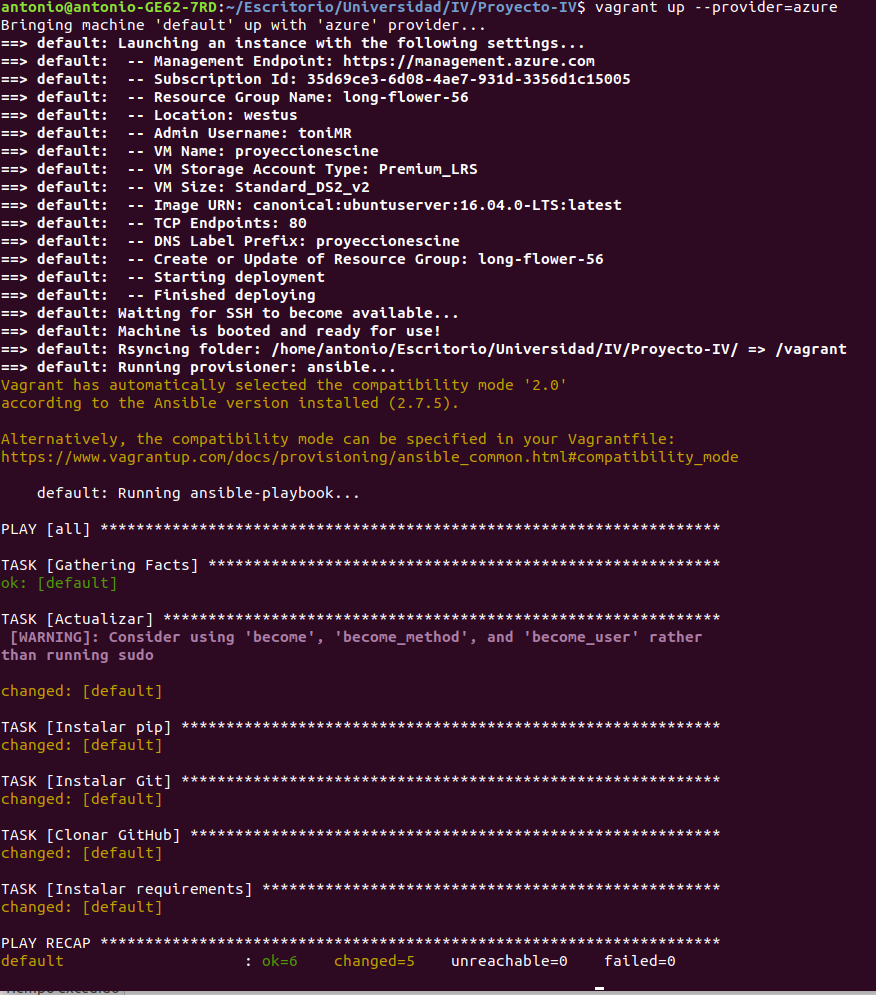
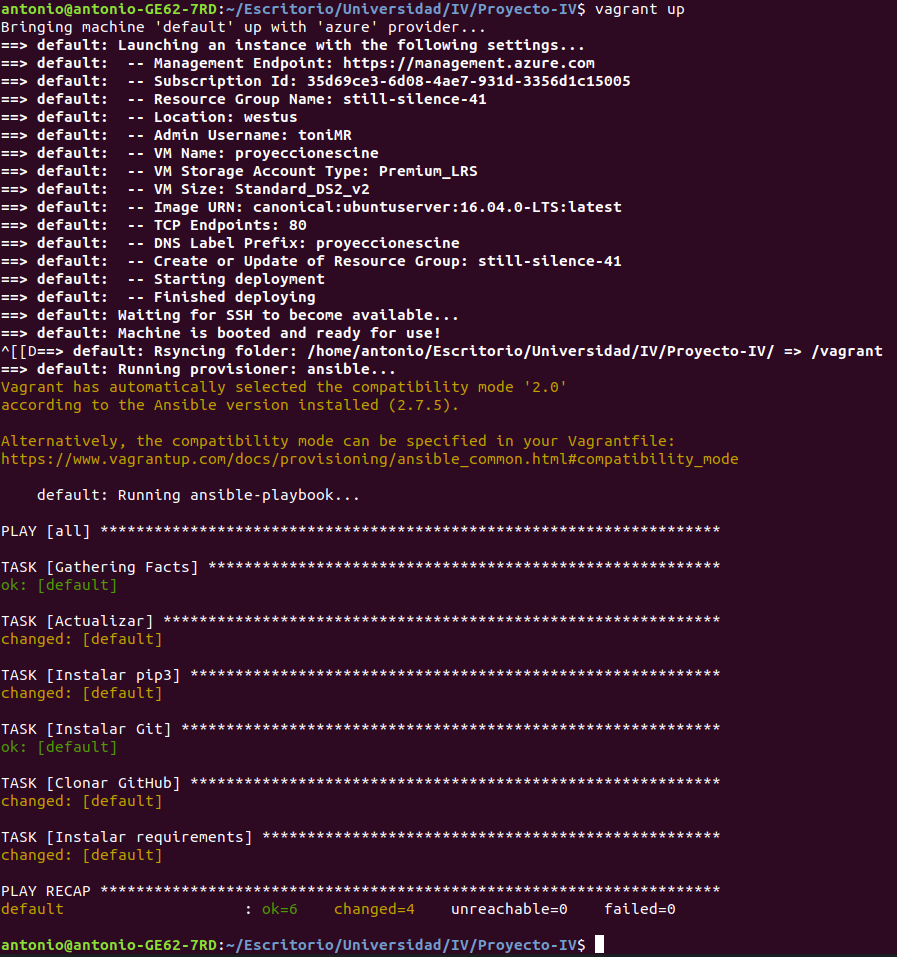
Comentando, editando playblook y añadiendo enlaces a la documentación en la documentación closes #47

Changed region(s): [[0.0, 0.0, 1.0, 1.0]]

diff --git a/doc/ConfiguracionAzure.md b/doc/ConfiguracionAzure.md
@@ -101,6 +101,17 @@ Para indicarle a nuestro sistema la configuración que necesitamos usamos Ansibl
 
 ![img](https://github.com/toniMR/Proyecto-IV/blob/master/doc/img/azure/playbook.png)  
 
+
+Enlace donde explica hosts, become y remote_user. [Documentación](https://docs.ansible.com/ansible/latest/user_guide/playbooks_intro.html#playbook-language-example)  
+
+Me salio un Warning diciendo que usará el module apt en vez de hacer apt-get
+Por lo que lo cambié siguiendo esta [documentación](https://docs.ansible.com/ansible/latest/modules/apt_module.html?highlight=apt)  
+
+También cambié el comando de clonar github por el modulo git [aquí](https://docs.ansible.com/ansible/latest/modules/git_module.html?highlight=git)  
+
+Por último, también cambié la manera de instalar los requirements. Haciéndolo
+con el modulo pip, siguiendo la [documentación](https://docs.ansible.com/ansible/latest/modules/pip_module.html?highlight=pip3)  
+
 ## Crear máquina virtual en Azure con Vagrant  
 
 
